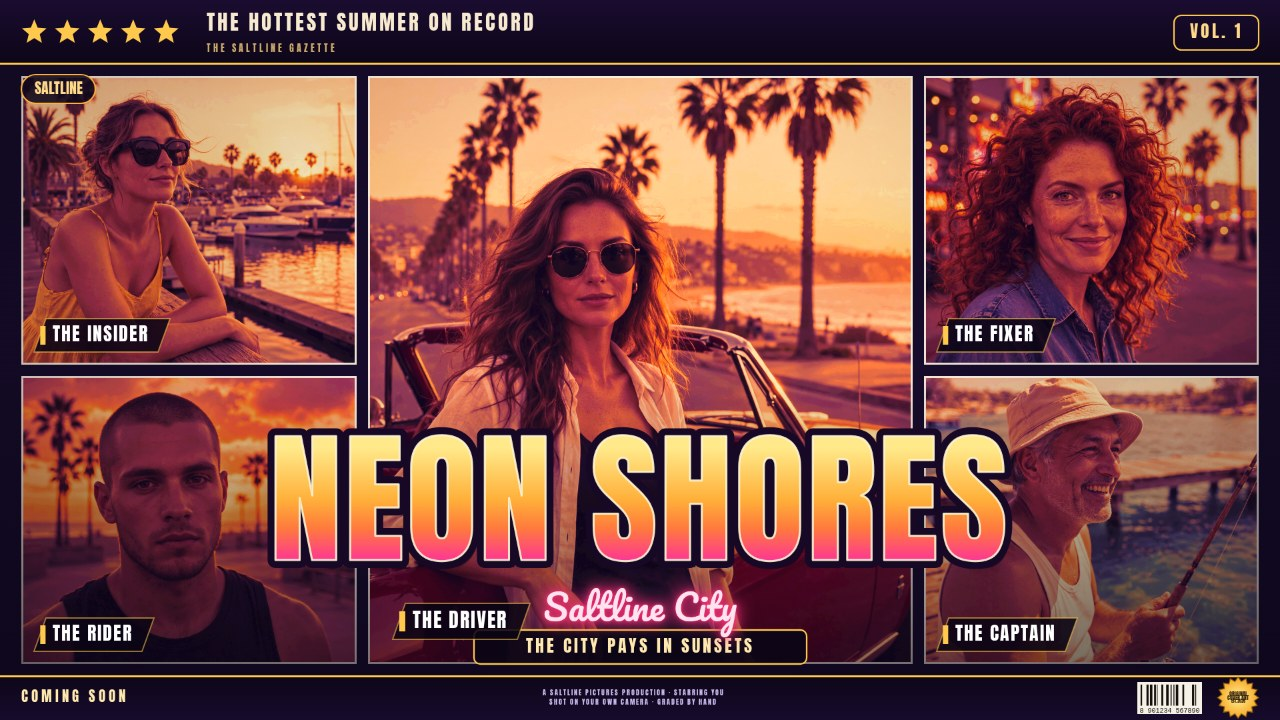
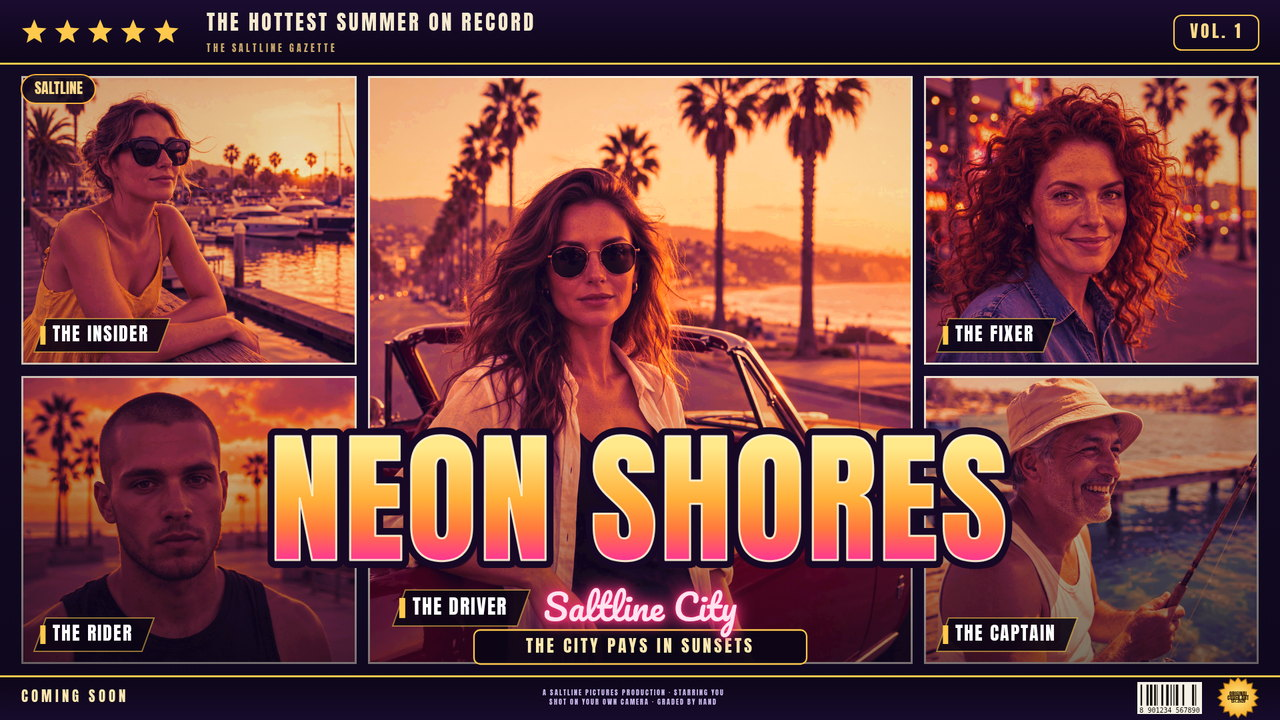
Round 3 fix: title beds for poster and ensemble covers, no faces under lettering

diff --git a/app/src/render.js b/app/src/render.js
@@ -4,7 +4,9 @@
 // rectangle with its frame and its character callout chip. Over the panels
 // goes the poster furniture: a masthead band with stars and a pull-quote, a
 // chrome title block with script subtitle and tagline ribbon, and a credits
-// strip with barcode and seal. A vignette and fine grain finish the sheet.
+// strip with barcode and seal. On the poster and ensemble layouts the title
+// block sits in its own painted sunset bed below the panels, never over
+// them. A vignette and fine grain finish the sheet.
 
 import { getPanelRects, furnitureZones, POSTER_LAYOUTS } from './panels.js';
 import { lutForGrade, applyLUTToImageData, posterizeBlend, hardPosterize, resolveGradeId } from './grades.js';
@@ -98,8 +100,9 @@ function paintPanel(ctx, image, panelRect, panelState, lut, options) {
   ctx.restore();
 }
 
-// Slanted character callout chip at a panel's bottom-left corner.
-function paintCallout(ctx, panelRect, label, H) {
+// Slanted character callout chip at a panel's bottom-left corner. When
+// maxBottom is given, the chip rides up so its bottom edge stays above it.
+function paintCallout(ctx, panelRect, label, H, maxBottom = null) {
   const text = (label || '').trim().toUpperCase();
   if (!text) return;
   const inset = Math.max(6, Math.round(Math.min(panelRect.w, panelRect.h) * 0.045));
@@ -119,7 +122,8 @@ function paintCallout(ctx, panelRect, label, H) {
   }
   const cw = Math.round(textW + tickW + padX * 2);
   const x = panelRect.x + inset;
-  const y = panelRect.y + panelRect.h - inset - ch;
+  let y = panelRect.y + panelRect.h - inset - ch;
+  if (maxBottom != null && y + ch > maxBottom) y = maxBottom - ch;
   const slant = Math.round(ch * 0.36);
   ctx.beginPath();
   ctx.moveTo(x, y + ch);
@@ -308,16 +312,46 @@ function fitFont(ctx, text, family, startSize, maxWidth, spacingRatio = 0) {
   return size;
 }
 
+// The title bed: a designed sunset field — deep purple melting into
+// magenta, a soft sun disc glowing behind where the title will sit, and a
+// gold rule along the top edge where the panel zone ends. Painted only for
+// the layouts that reserve a bed (poster, ensemble).
+function paintTitleBed(ctx, W, bedTop, creditsTop) {
+  const bedH = creditsTop - bedTop;
+  const grad = ctx.createLinearGradient(0, bedTop, 0, creditsTop);
+  grad.addColorStop(0, '#2b0a4e');
+  grad.addColorStop(0.55, '#5c0f6e');
+  grad.addColorStop(1, '#93196d');
+  ctx.fillStyle = grad;
+  ctx.fillRect(0, bedTop, W, bedH);
+  ctx.save();
+  ctx.beginPath(); ctx.rect(0, bedTop, W, bedH); ctx.clip();
+  const sunGrad = ctx.createLinearGradient(0, bedTop + bedH * 0.21, 0, bedTop + bedH * 0.95);
+  sunGrad.addColorStop(0, 'rgba(255, 150, 61, 0.5)');
+  sunGrad.addColorStop(1, 'rgba(255, 61, 138, 0.5)');
+  ctx.fillStyle = sunGrad;
+  ctx.beginPath();
+  ctx.arc(W / 2, bedTop + bedH * 0.58, bedH * 0.37, 0, Math.PI * 2);
+  ctx.fill();
+  ctx.restore();
+  ctx.fillStyle = '#ffc94d';
+  ctx.fillRect(0, bedTop, W, Math.max(2, Math.round(bedH * 0.008)));
+}
+
 // Chrome title block: title, script subtitle, tagline ribbon — stacked
-// above the credits strip with every line fully inside the canvas.
-function paintTitleBlock(ctx, W, H, state, creditsTop) {
+// above the credits strip with every line fully inside the canvas. When
+// bedTop is given (poster, ensemble), the whole stack is sized to the bed
+// and the title shrinks until its cap top clears the bed's top edge, so
+// no letter ever reaches the panels above.
+function paintTitleBlock(ctx, W, H, state, creditsTop, bedTop = null) {
   const title = (state.caption || '').trim().toUpperCase();
   const sub = (state.subtitle || '').trim();
   const tagline = (state.tagline || '').trim().toUpperCase();
-  const marginBottom = Math.round(H * 0.016);
+  const bedH = bedTop != null ? creditsTop - bedTop : 0;
+  const marginBottom = bedTop != null ? Math.round(bedH * 0.05) : Math.round(H * 0.016);
 
   // Tagline ribbon at the bottom of the stack.
-  const ribH = Math.round(H * 0.047);
+  const ribH = bedTop != null ? Math.round(bedH * 0.15) : Math.round(H * 0.047);
   const ribBottom = creditsTop - marginBottom;
   const ribTop = ribBottom - ribH;
   if (tagline) {
@@ -336,9 +370,9 @@ function paintTitleBlock(ctx, W, H, state, creditsTop) {
   }
 
   // Script subtitle with a neon glow, just above the ribbon.
-  let subBaseline = ribTop - Math.round(H * 0.012);
+  let subBaseline = ribTop - (bedTop != null ? Math.round(bedH * 0.03) : Math.round(H * 0.012));
   if (sub) {
-    const sSize = fitFont(ctx, sub, 'Pacifico, cursive', Math.round(H * 0.05), W * 0.72);
+    const sSize = fitFont(ctx, sub, 'Pacifico, cursive', bedTop != null ? Math.round(bedH * 0.16) : Math.round(H * 0.05), W * 0.72);
     ctx.font = `400 ${sSize}px Pacifico, cursive`;
     ctx.textAlign = 'center'; ctx.textBaseline = 'alphabetic';
     ctx.shadowColor = '#ff2d78';
@@ -357,7 +391,13 @@ function paintTitleBlock(ctx, W, H, state, creditsTop) {
 
   // The title itself: chrome retro-stripe fill, dark outline, light keyline.
   if (title) {
-    const tSize = fitFont(ctx, title, 'Anton, sans-serif', Math.round(H * 0.2), W * 0.94, 0.02);
+    let tSize = fitFont(ctx, title, 'Anton, sans-serif', bedTop != null ? Math.round(bedH * 0.62) : Math.round(H * 0.2), W * 0.94, 0.02);
+    if (bedTop != null) {
+      // Shrink until the cap top, outline included, clears the bed's top.
+      while (tSize > 30 && subBaseline - Math.round(tSize * 0.1) - tSize * 0.84 < bedTop + Math.round(bedH * 0.03)) {
+        tSize -= 4;
+      }
+    }
     ctx.save();
     ctx.translate(Math.round(W / 2), 0);
     ctx.font = `400 ${tSize}px Anton, sans-serif`;
@@ -437,20 +477,27 @@ export function renderCover(canvas, state) {
     const ps = state.panels[i] || { photoIndex: i % Math.max(1, state.photos.length), zoom: 1, ox: 0, oy: 0, smart: true };
     const photo = state.photos[ps.photoIndex] || state.photos[0];
     paintPanel(ctx, photo ? photo.img : null, panelRect, ps, lut, { posterInk: state.posterInk, halftone: state.halftone, gradeId, thinFrame, W, H });
-    if (state.callouts) callouts.push([panelRect, ps.label || defaultLabelFor(photo)]);
+    if (state.callouts) callouts.push([panelRect, ps.label || defaultLabelFor(photo), i]);
   });
-  paintVignetteAndGrain(ctx, W, H);
 
   const furniture = state.furniture !== false;
   const creditsTop = furniture && zones.creditsH > 0 ? H - zones.creditsH : H;
-  // Soft shade behind the title block so type stays readable on busy photos.
-  const shadeTop = creditsTop - Math.round(H * 0.42);
-  const shade = ctx.createLinearGradient(0, shadeTop, 0, creditsTop);
-  shade.addColorStop(0, 'rgba(10,5,22,0)');
-  shade.addColorStop(1, 'rgba(10,5,22,0.5)');
-  ctx.fillStyle = shade; ctx.fillRect(0, shadeTop, W, creditsTop - shadeTop);
+  // Layouts with a title bed (poster, ensemble) get the designed sunset bed
+  // under their panels; the title stack lives entirely inside it.
+  const bedTop = zones.titleBedH > 0 ? zones.bottom : null;
+  if (bedTop != null) paintTitleBed(ctx, W, bedTop, creditsTop);
+  paintVignetteAndGrain(ctx, W, H);
 
-  paintTitleBlock(ctx, W, H, state, creditsTop);
+  if (bedTop == null) {
+    // Soft shade behind the title block so type stays readable on busy photos.
+    const shadeTop = creditsTop - Math.round(H * 0.42);
+    const shade = ctx.createLinearGradient(0, shadeTop, 0, creditsTop);
+    shade.addColorStop(0, 'rgba(10,5,22,0)');
+    shade.addColorStop(1, 'rgba(10,5,22,0.5)');
+    ctx.fillStyle = shade; ctx.fillRect(0, shadeTop, W, creditsTop - shadeTop);
+  }
+
+  paintTitleBlock(ctx, W, H, state, creditsTop, bedTop);
   if (furniture && zones.mastH > 0) paintMasthead(ctx, W, H, zones.mastH, margin);
   if (furniture && zones.creditsH > 0) paintCredits(ctx, W, H, zones.creditsH, margin);
   // The SALTLINE pill bug: top-left, just under the masthead when present.
@@ -458,7 +505,13 @@ export function renderCover(canvas, state) {
   paintPillBug(ctx, W, H, margin, pillY);
   // Callout chips paint last, like stickers over the finished poster, so a
   // chip at a panel's bottom corner stays readable where the title block
-  // overlaps that corner.
-  for (const [panelRect, label] of callouts) paintCallout(ctx, panelRect, label, H);
+  // overlaps that corner. On the wide Key Art cover the hero chip rides up
+  // a touch so the tagline ribbon never clips its bottom edge.
+  const heroRibTop = state.layout === 'keyart' && (state.tagline || '').trim()
+    ? creditsTop - Math.round(H * 0.016) - Math.round(H * 0.047)
+    : null;
+  for (const [panelRect, label, i] of callouts) {
+    paintCallout(ctx, panelRect, label, H, heroRibTop != null && i === 0 ? heroRibTop - 6 : null);
+  }
   return { gradeId, panelCount: rects.length };
 }

diff --git a/app/src/panels.js b/app/src/panels.js
@@ -2,8 +2,10 @@
 // The three poster layouts (keyart, poster, ensemble) reserve a masthead
 // band at the top and a credits strip at the bottom — the poster furniture
 // zones — and lay their panels out straight, with thin frames and dark
-// gutters, in the space between. The classic layouts keep the looser
-// hand-assembled collage geometry from earlier rounds.
+// gutters, in the space between. Poster and ensemble additionally reserve
+// a title bed above the credits strip, so their panel zones end clear of
+// the title block. The classic layouts keep the looser hand-assembled
+// collage geometry from earlier rounds.
 
 export const LAYOUTS = [
   { id: 'keyart', label: 'Key Art (wide)' },
@@ -39,26 +41,31 @@ function rect(x, y, w, h, rot = 0) {
   return { x: Math.round(x), y: Math.round(y), w: Math.round(w), h: Math.round(h), rot };
 }
 
-// furnitureZones(layoutId, W, H) -> { mastH, creditsH, top, bottom }
-// top/bottom bound the panel area. Classic layouts reserve nothing.
+// furnitureZones(layoutId, W, H) -> { mastH, creditsH, top, bottom, titleBedH }
+// top/bottom bound the panel area. Poster and ensemble also reserve a
+// title bed (titleBedH) between the panel area and the credits strip: the
+// title block lives entirely inside that bed and never overlaps a panel.
+// Classic layouts reserve nothing.
 export function furnitureZones(layoutId, W, H) {
   switch (layoutId) {
     case 'keyart': {
       const mastH = Math.round(H * 0.09), creditsH = Math.round(H * 0.062);
-      return { mastH, creditsH, top: mastH, bottom: H - creditsH };
+      return { mastH, creditsH, top: mastH, bottom: H - creditsH, titleBedH: 0 };
     }
     case 'poster': {
-      const mastH = Math.round(H * 0.072), creditsH = Math.round(H * 0.052);
-      // The panel area also leaves a title bed above the credits strip, so
-      // the lower-third title block never swallows the bottom row's faces.
-      return { mastH, creditsH, top: mastH, bottom: H - creditsH - Math.round(H * 0.185) };
+      // Masthead ~7%, panel zone ~57%, title bed ~32%, credits ~4%.
+      const mastH = Math.round(H * 0.07), creditsH = Math.round(H * 0.04);
+      const bedH = Math.round(H * 0.32);
+      return { mastH, creditsH, top: mastH, bottom: H - creditsH - bedH, titleBedH: bedH };
     }
     case 'ensemble': {
-      const mastH = Math.round(H * 0.082), creditsH = Math.round(H * 0.06);
-      return { mastH, creditsH, top: mastH, bottom: H - creditsH - Math.round(H * 0.15) };
+      // Masthead ~8%, panel grid in the top ~62%, title bed ~26%, credits ~4%.
+      const mastH = Math.round(H * 0.08), creditsH = Math.round(H * 0.04);
+      const bedH = Math.round(H * 0.26);
+      return { mastH, creditsH, top: mastH, bottom: H - creditsH - bedH, titleBedH: bedH };
     }
     default:
-      return { mastH: 0, creditsH: 0, top: 0, bottom: H };
+      return { mastH: 0, creditsH: 0, top: 0, bottom: H, titleBedH: 0 };
   }
 }
 
@@ -92,8 +99,8 @@ export function getPanelRects(layoutId, width, height) {
     case 'poster': {
       // Row of two, hero, row of two. The bottom row is the tallest band:
       // its wide panels need the height to keep a close-up face whole.
-      const topH = Math.round(areaH * 0.2);
-      const botH = Math.round(areaH * 0.27);
+      const topH = Math.round(areaH * 0.21);
+      const botH = Math.round(areaH * 0.3);
       const heroH = areaH - topH - botH - g * 2;
       const cw = Math.round((iw - g) / 2);
       const y2 = areaY + topH + g, y3 = y2 + heroH + g;
